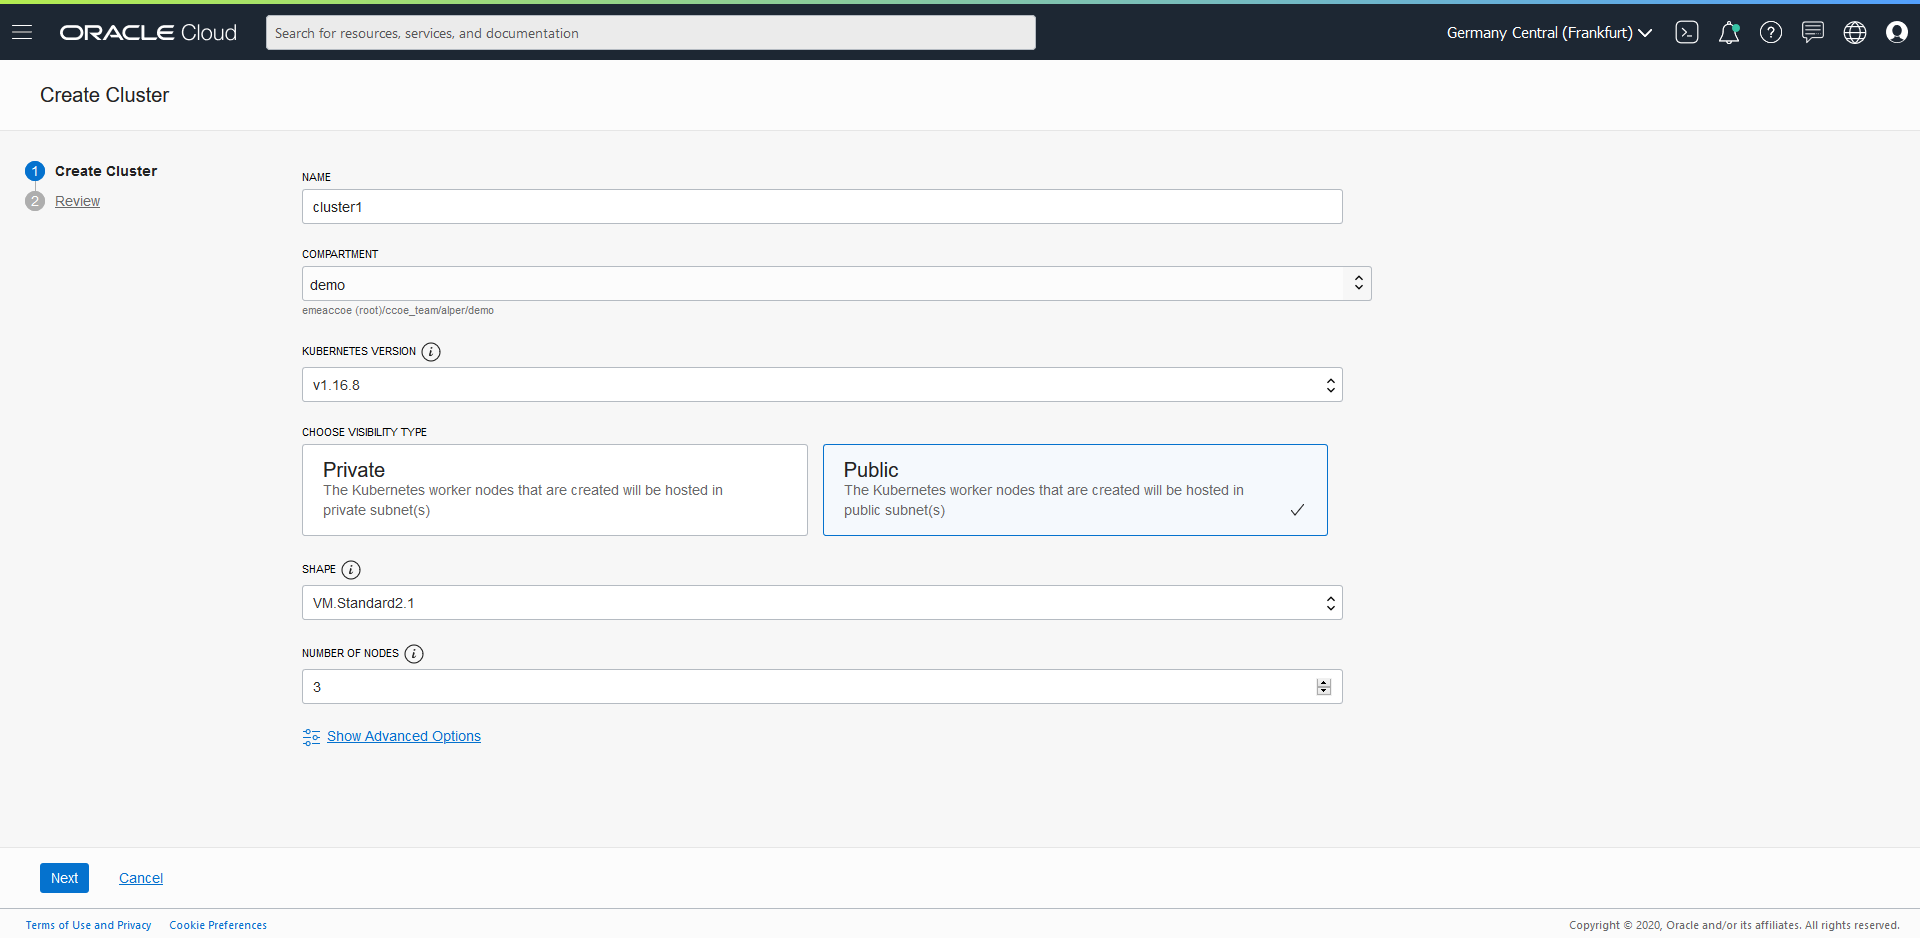
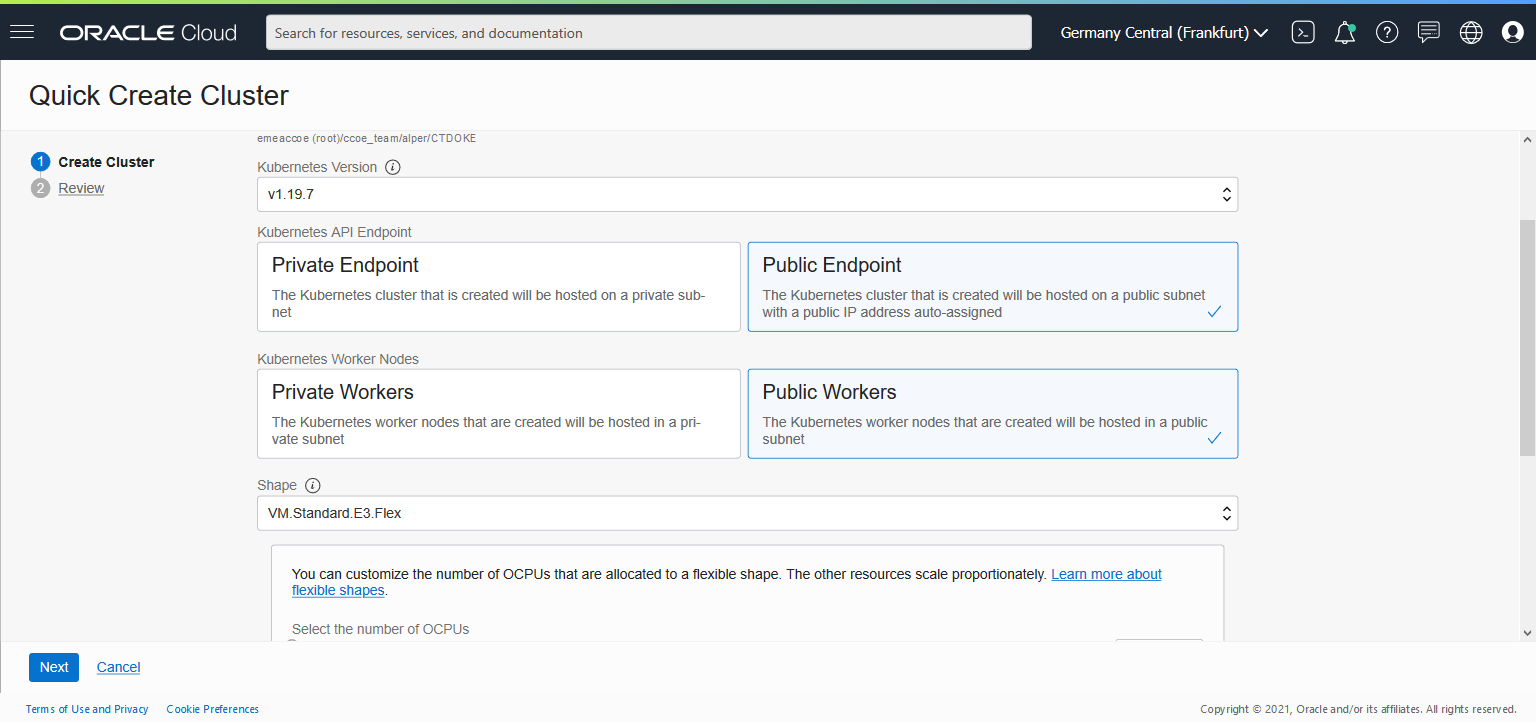
updated cluster creation

diff --git a/appdev/cloudnative/k8s/OKE/create-cluster.OKE1.md b/appdev/cloudnative/k8s/OKE/create-cluster.OKE1.md
@@ -9,16 +9,17 @@ You can create using the Quick create option.
     1. Select Quick Create ![](./images/oke-create-1.png)
     2. Give a name to your cluster
     3. Kubernetes version = latest
-    4. Select Visiblity=Public
-    5. Shape=VM.Standard2.1
-    6. Number of Nodes = 3  
+    4. Kubernetes api endpoint = Public
+    5. Select Visiblity = Public
+    6. Shape = VM.Standard.E3.Flex; 1 CPU 16 GB Ram (default)
+    7. Number of Nodes = 3  
     ![](./images/oke-create-2.png)
-    7. Next & Create Cluster
-    8. This workflow dialog will quickly complete. Howerver this will not finish creating it. It will take some time to fully create the cluster  
+    8. Next & Create Cluster
+    9. This workflow dialog will quickly complete. Howerver this will not finish creating it. It will take some time to fully create the cluster  
     ![](./images/oke-create-3.png)
-    9. When it is fully created, the state will be updated automatically, no need to refresh the page.  
+    10. When it is fully created, the state will be updated automatically, no need to refresh the page.  
     ![](./images/oke-create-4.png)
-    10. After seeing Active state, you can proceed with next steps
+    11. After seeing Active state, you can proceed with next steps
 
 ---
 
